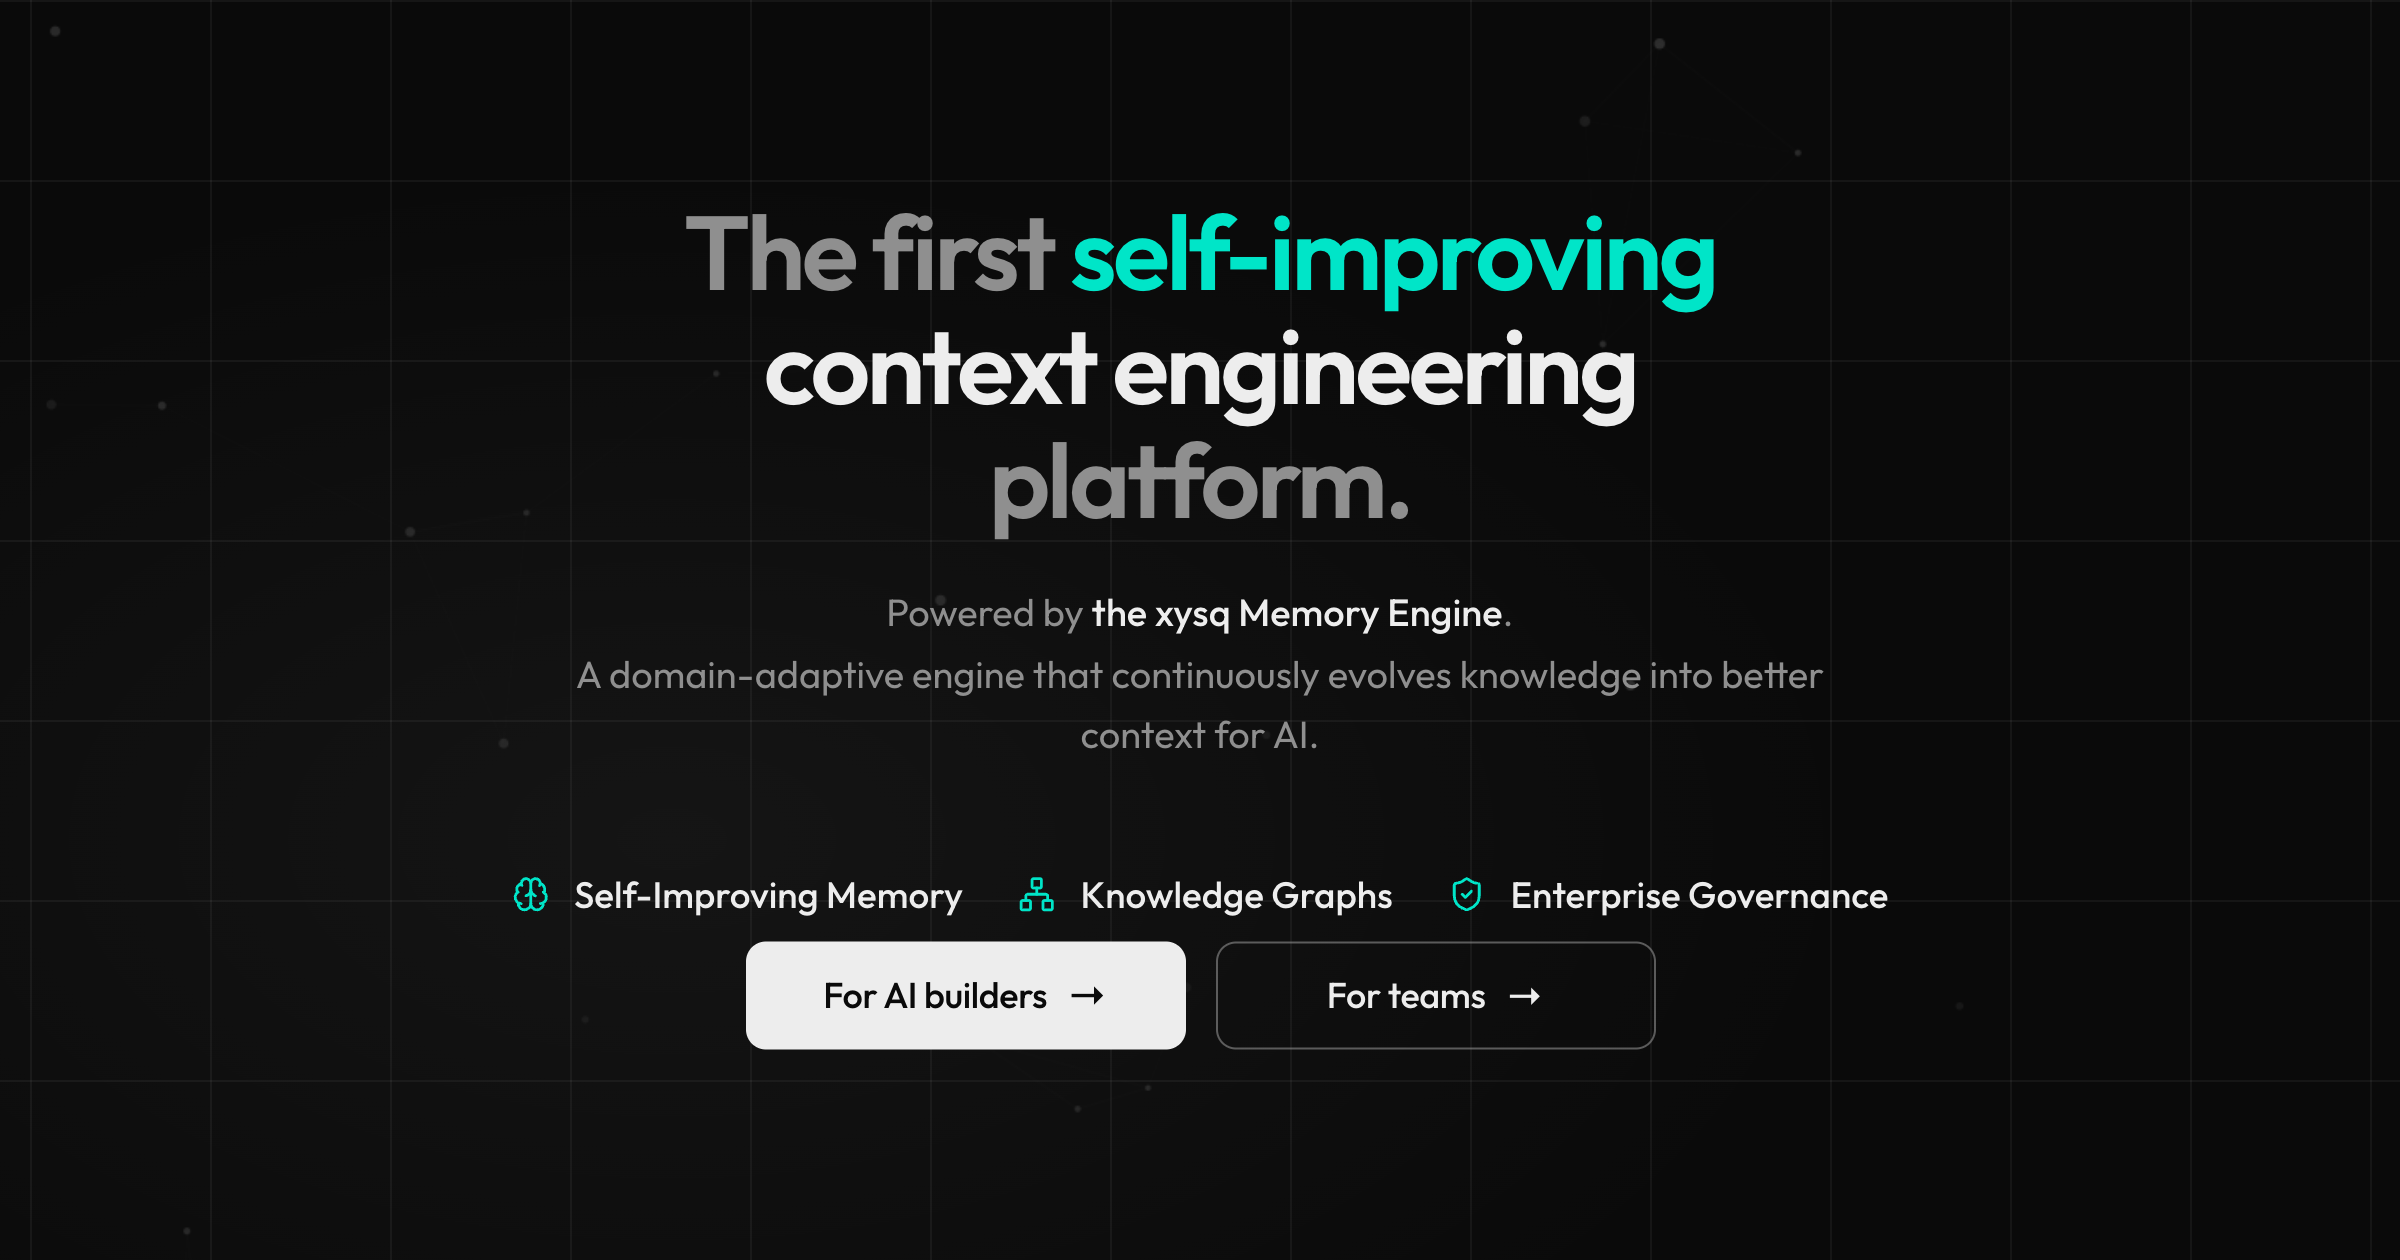
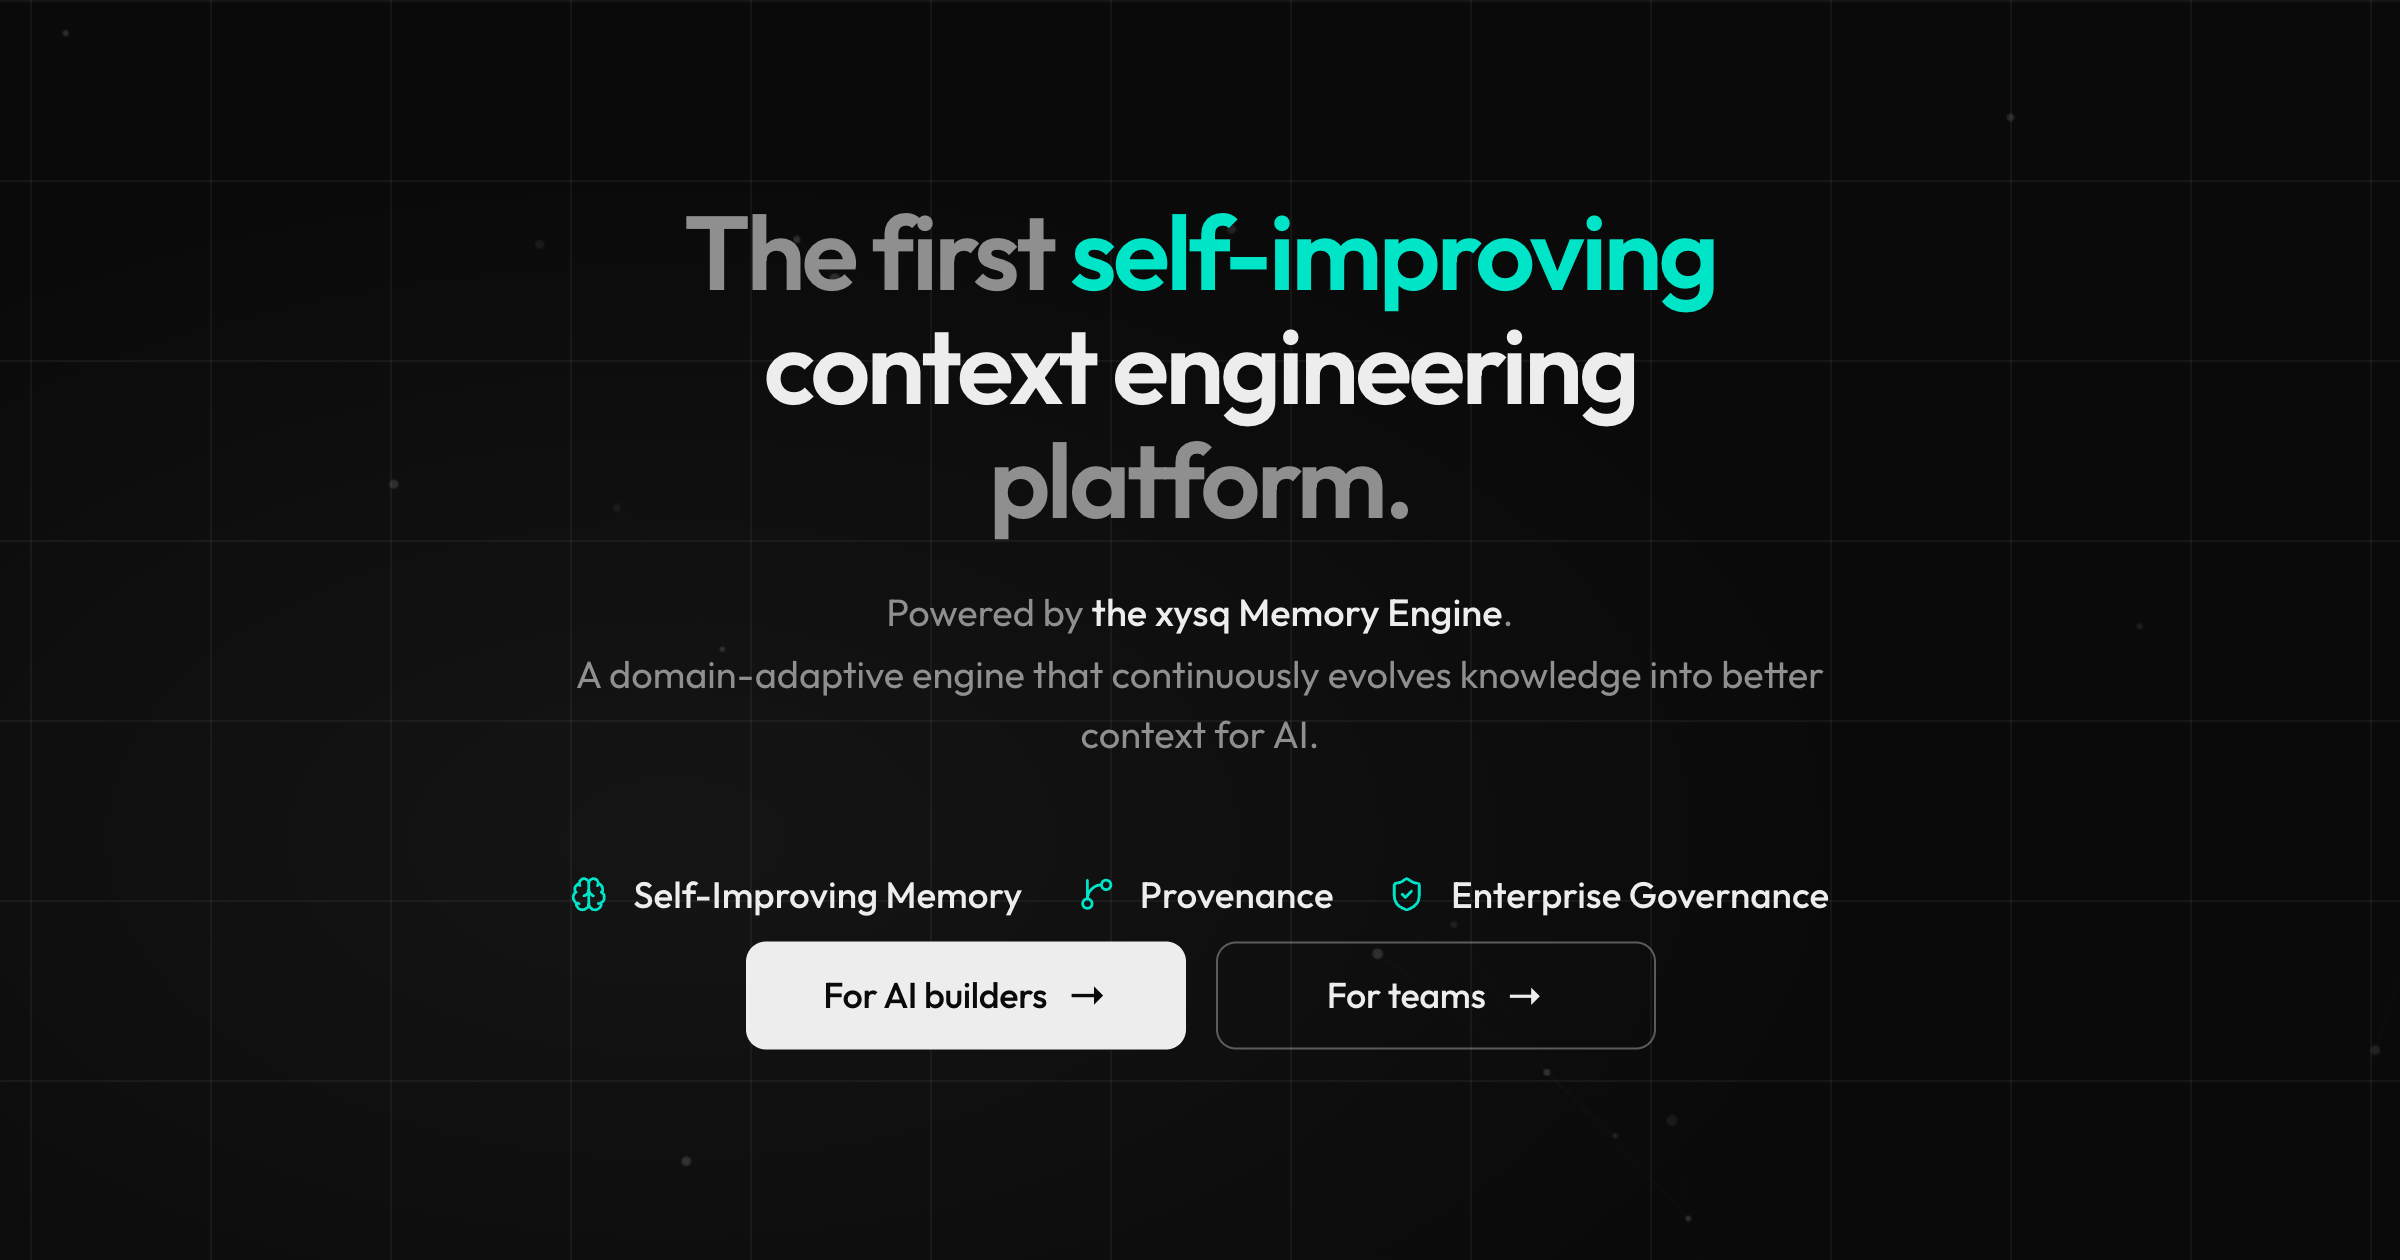
landing: provenance elevated to a first-class pillar (hero row, engine row, governance band) + og refresh

Changed region(s): [[0.2188, 0.681, 0.7812, 0.7429]]

diff --git a/src/components/OutputsSection.jsx b/src/components/OutputsSection.jsx
@@ -2,7 +2,7 @@ import { motion } from 'framer-motion'
 import {
   Target, ShieldCheck, GitBranch, FileText, Folder, Database,
   User, Users, Lock, Download, HardDrive, Share2, ChevronDown,
-  ArrowRight, History, Eye, Bot,
+  ArrowRight, Eye, Bot,
 } from 'lucide-react'
 import '../styles/outputs-section.css'
 
@@ -242,8 +242,8 @@ export default function OutputsSection() {
               <span className="out-gov-item-text">Every context graph is visible and accessible. No black boxes.</span>
             </div>
             <div className="out-gov-item">
-              <span className="out-gov-item-label"><History size={13} strokeWidth={1.8} aria-hidden="true" /> Every change auditable</span>
-              <span className="out-gov-item-text">Who changed what, when, based on what. Always answerable.</span>
+              <span className="out-gov-item-label"><GitBranch size={13} strokeWidth={1.8} aria-hidden="true" /> Provenance on every fact</span>
+              <span className="out-gov-item-text">Who said it, where it came from, what changed it. Always answerable.</span>
             </div>
             <div className="out-gov-item">
               <span className="out-gov-item-label"><Lock size={13} strokeWidth={1.8} aria-hidden="true" /> Access you control</span>

diff --git a/src/components/Hero.jsx b/src/components/Hero.jsx
@@ -1,5 +1,5 @@
 import { motion } from 'framer-motion'
-import { Brain, Network, ShieldCheck } from 'lucide-react'
+import { Brain, GitBranch, ShieldCheck } from 'lucide-react'
 import HeroShowcase from './HeroShowcase'
 import '../styles/hero.css'
 
@@ -44,8 +44,8 @@ export default function Hero() {
               Self-Improving Memory
             </li>
             <li>
-              <Network size={15} strokeWidth={1.8} aria-hidden="true" />
-              Knowledge Graphs
+              <GitBranch size={15} strokeWidth={1.8} aria-hidden="true" />
+              Provenance
             </li>
             <li>
               <ShieldCheck size={15} strokeWidth={1.8} aria-hidden="true" />

diff --git a/src/components/EngineSection.jsx b/src/components/EngineSection.jsx
@@ -1,5 +1,5 @@
 import { motion } from 'framer-motion'
-import { RefreshCw, Crosshair, Layers } from 'lucide-react'
+import { RefreshCw, GitBranch, Layers } from 'lucide-react'
 import CorrectionFigure from './CorrectionFigure'
 import '../styles/engine-section.css'
 
@@ -17,9 +17,9 @@ const rows = [
     body: 'One correction improves every future retrieval.',
   },
   {
-    icon: Crosshair,
-    label: 'Domain-adaptive',
-    body: 'Learns your domain instead of generic internet knowledge.',
+    icon: GitBranch,
+    label: 'Provenance on every fact',
+    body: 'Every answer traces back to its source. Nothing is made up quietly.',
   },
   {
     icon: Layers,
